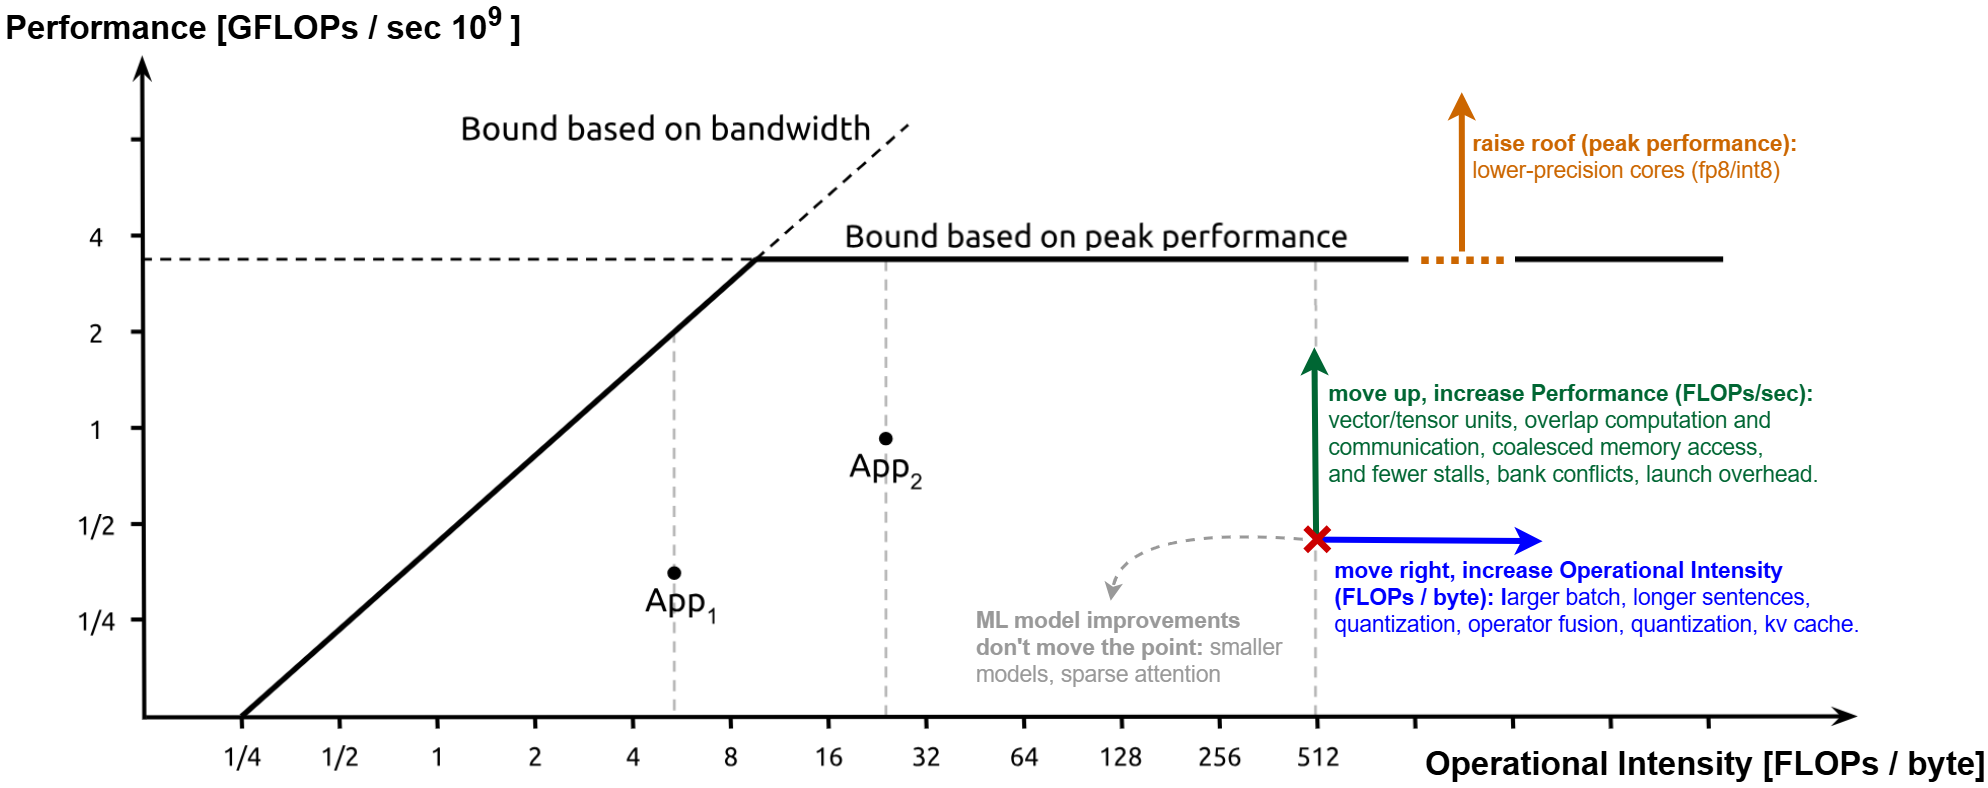
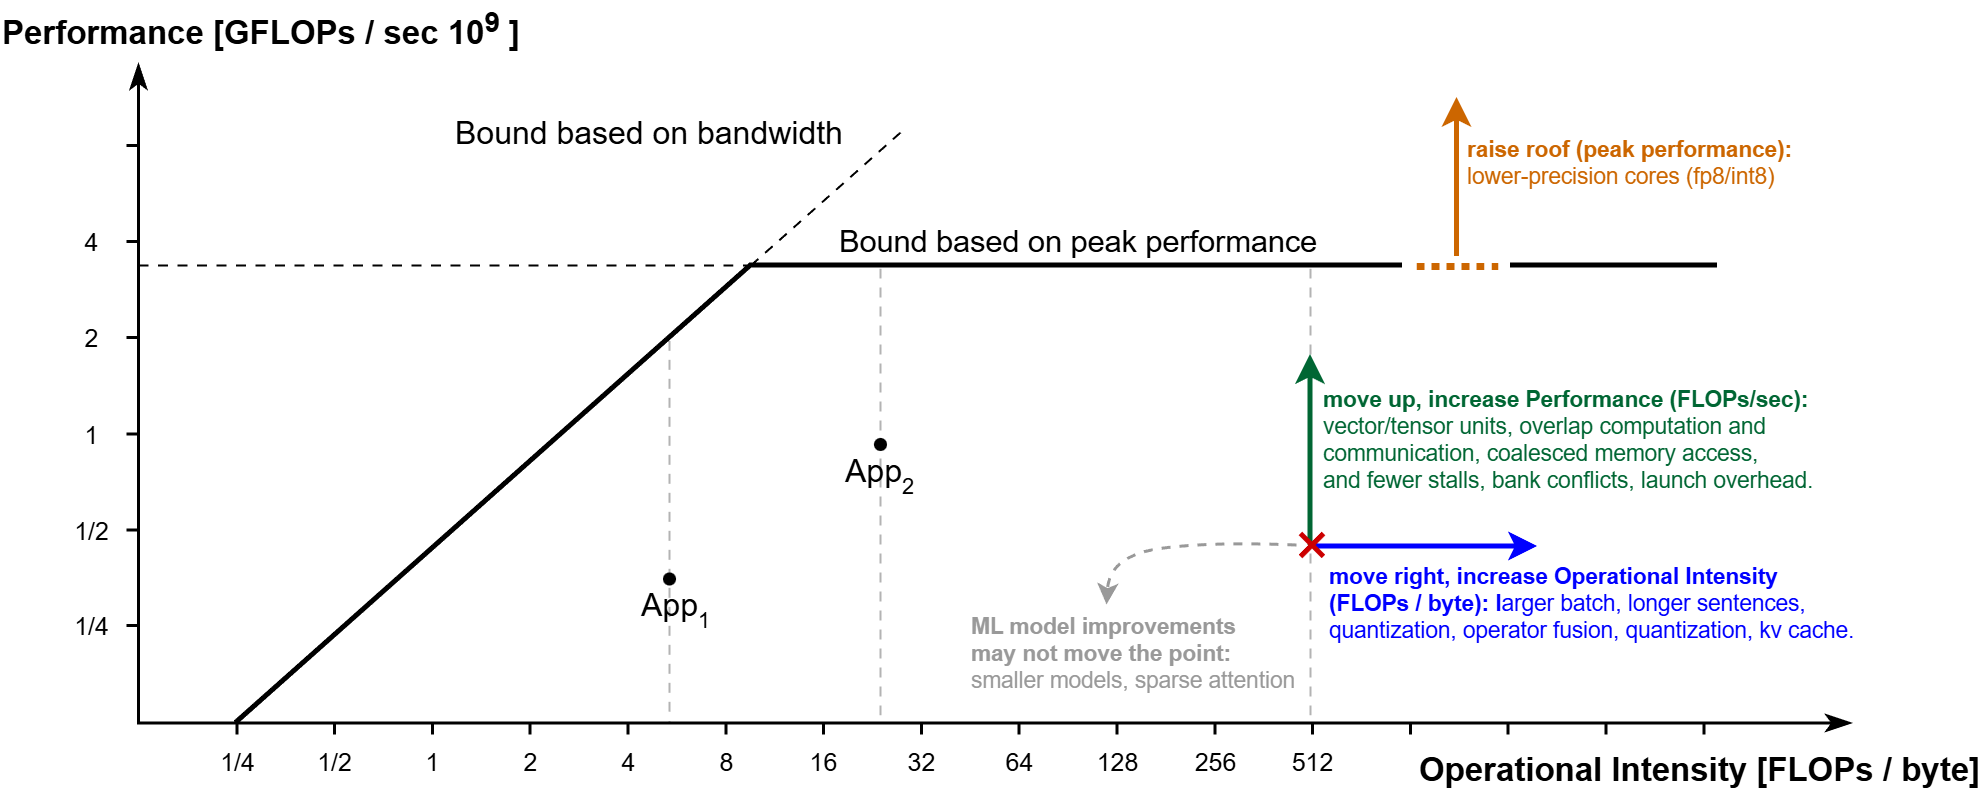
attention pictures

diff --git a/_posts/2025-12-30-inference-attention.md b/_posts/2025-12-30-inference-attention.md
@@ -13,8 +13,8 @@ $$
 
 During prefill, $$QK^T$$ compares every token with every previous token, so the compute grows quadratically with the prompt length, and a naive implementation stores an $$n \times n$$ matrix of scores per head.
 
-<!-- {: style="text-align:center; font-size: small;"}
-<img width="100%" height="100%" src="{{ site.assets }}/inference/imgs/sdpa.png"/> -->
+{: style="text-align:center; font-size: small;"}
+<img width="70%" height="70%" src="{{ site.assets }}/inference/imgs/sdpa.png"/>
 
 The following code implements this attention, with an optional mask, and the causal mask of a decoder; all the modules of this post reuse both functions:
 
@@ -69,21 +69,24 @@ Prefill processes all the tokens of the prompt at once and is limited by compute
 
 ## Multi-Head (MHA), Multi-Query (MQA) and Grouped-Query Attention (GQA)
 
-Decode reads the whole KV cache at every step, so a smaller KV cache means faster decoding, and room for larger batches and longer contexts:
-- **Multi-Head Attention** keeps one query, one key and one value per head.
-- **Multi-Query Attention** ([MQA](https://arxiv.org/abs/1911.02150)) keeps one query per head, but all heads share a single key head and a single value head. The KV cache shrinks by a factor equal to the number of heads, at some cost in quality.
-- **Grouped-Query Attention** ([GQA](https://arxiv.org/abs/2305.13245)) is the middle ground, used by most current models: the heads are split into $$G$$ groups, and the heads of a group share one key head and one value head. The cache shrinks by a factor $$n_\text{heads} / G$$. GQA becomes multi-head attention when $$G = n_\text{heads}$$, and MQA when $$G = 1$$. A trained multi-head model can be converted to GQA by averaging (mean pooling) the key and value heads of each group, followed by a short *uptraining* with about 5% of the original pre-training compute.
+Decode reads the whole KV cache at every step, so a smaller KV cache means faster decoding, and room for larger batches and longer contexts.
+
+**Multi-Head Attention** keeps one query, one key and one value per head.
+
+{: style="text-align:center; font-size: small;"}
+<img width="100%" height="100%" src="{{ site.assets }}/inference/imgs/mha.png"/>
+
+**Multi-Query Attention** ([MQA](https://arxiv.org/abs/1911.02150)) keeps one query per head, but all heads share a single key head and a single value head. The KV cache shrinks by a factor equal to the number of heads, at some cost in quality.
+
+{: style="text-align:center; font-size: small;"}
+<img width="100%" height="100%" src="{{ site.assets }}/inference/imgs/mqa.png"/>
+
+**Grouped-Query Attention** ([GQA](https://arxiv.org/abs/2305.13245)) is the middle ground, used by most current models: the heads are split into $$G$$ groups, and the heads of a group share one key head and one value head. The cache shrinks by a factor $$n_\text{heads} / G$$. GQA becomes multi-head attention when $$G = n_\text{heads}$$, and MQA when $$G = 1$$. A trained multi-head model can be converted to GQA by averaging (mean pooling) the key and value heads of each group, followed by a short *uptraining* with about 5% of the original pre-training compute.
+
+{: style="text-align:center; font-size: small;"}
+<img width="100%" height="100%" src="{{ site.assets }}/inference/imgs/gqa.png"/>
 
 GQA (Grouped-Query Attention) and MQA (Multi-Query Attention) primarily accelerate the decode phase, though they also provide a massive secondary benefit to overall system throughput by freeing up memory. These savings *only appear when there is a KV cache to read during decode*. Without a cache, GQA only saves a little compute in the key and value projections.
-
-<!-- {: style="text-align:center; font-size: small;"}
-<img width="100%" height="100%" src="{{ site.assets }}/inference/imgs/mha.png"/> -->
-
-<!-- {: style="text-align:center; font-size: small;"}
-<img width="100%" height="100%" src="{{ site.assets }}/inference/imgs/mqa.png"/> -->
-
-<!-- {: style="text-align:center; font-size: small;"}
-<img width="100%" height="100%" src="{{ site.assets }}/inference/imgs/gqa.png"/> -->
 
 The following code implements GQA with an optional KV cache; it is also MHA with `num_groups = num_heads`, and MQA with `num_groups = 1`. During decode, the module receives only the new tokens, appends their keys and values to the cache, and returns the updated cache, whose keys and values have $$G$$ heads instead of $$n_\text{heads}$$. The model must also give the new tokens the positions that follow the cached ones. MLA and DSA, below, follow the same convention: an optional `kv_cache` argument, and the new cache returned with the output:
 
@@ -224,8 +227,8 @@ The three run in a single fused GPU kernel, for both the forward and backward pa
 
 MLA mainly accelerates decode, which is limited by memory bandwidth: like MQA and GQA, it shrinks the KV cache that every decoding step reads, and with absorption, attention runs directly over the cached latent vectors, without up-projecting them into the keys and values of every head. Prefill is limited by compute instead, and absorbed attention costs more FLOPs per score, as it works in the latent dimension (512 in DeepSeek-V2) instead of the head dimension (128). Implementations therefore usually up-project the latent vectors into keys and values during prefill, and use absorption during decode.
 
-<!-- {: style="text-align:center; font-size: small;"}
-<img width="100%" height="100%" src="{{ site.assets }}/inference/imgs/mla.png"/> -->
+{: style="text-align:center; font-size: small;"}
+<img width="100%" height="100%" src="{{ site.assets }}/inference/imgs/mla.png"/>
 
 The following code implements MLA. With absorption (`absorb = True`), attention runs directly over the latent vectors, and gives the same output as recomputing the keys and values of every head (`absorb = False`):
 
@@ -302,8 +305,8 @@ DSA was added to an already trained model, in two stages. During a short *dense 
 
 With a KV cache, the indexer key of every token is cached too. Index scores are often tied, since the ReLU outputs many zeros, so the selection below uses a stable sort, which breaks ties the same way whether the tokens are processed together or one at a time: decoding with a KV cache then gives the same result as processing the whole sequence.
 
-<!-- {: style="text-align:center; font-size: small;"}
-<img width="100%" height="100%" src="{{ site.assets }}/inference/imgs/dsa.png"/> -->
+{: style="text-align:center; font-size: small;"}
+<img width="100%" height="100%" src="{{ site.assets }}/inference/imgs/dsa.png"/>
 
 The following code adds DeepSeek Sparse Attention to multi-head attention. It keeps the projections of `GQA` with `num_groups = num_heads`, so it can load the weights of a trained multi-head attention module, and adds an indexer. During the dense warm-up (`dense = True`), the queries attend to all past tokens and the module computes `indexer_loss`, which is backpropagated alone to train the indexer; afterwards, each query attends only to the `top_k` past tokens with the highest index scores:
 
@@ -421,11 +424,11 @@ Both use multi-query attention with a single key-value vector per entry, shared 
 | DeepSeek-V4, CSA layers | compression by 4, then top-k | an entry and an indexer key every 4 tokens, plus the last 128 tokens | the top-k entries and the last 128 tokens |
 | DeepSeek-V4, HCA layers | compression by 128 | an entry every 128 tokens, plus the last 128 tokens | all the entries and the last 128 tokens |
 
-<!-- {: style="text-align:center; font-size: small;"}
-<img width="100%" height="100%" src="{{ site.assets }}/inference/imgs/csa.png"/> -->
+{: style="text-align:center; font-size: small;"}
+<img width="100%" height="100%" src="{{ site.assets }}/inference/imgs/csa.png"/>
 
-<!-- {: style="text-align:center; font-size: small;"}
-<img width="100%" height="100%" src="{{ site.assets }}/inference/imgs/hca.png"/> -->
+{: style="text-align:center; font-size: small;"}
+<img width="100%" height="100%" src="{{ site.assets }}/inference/imgs/hca.png"/>
 
 The following code implements both attention types in a single module, CSA when `top_k` is given and HCA otherwise, with the overlapping compression, the lightning indexer, the shared key-value multi-query attention, the sliding window, the low-rank queries, RMSNorm, the attention sink and the grouped output projection. A model alternates CSA and HCA across its blocks. The module expects positional information in its input, such as learned positional embeddings, so it omits rotary embeddings. As in DSA, the indexer learns to imitate the attention over the compressed entries with the KL-divergence loss `indexer_loss`, which is added to the training loss, from an input detached from the rest of the model. These attention types change the architecture, so a model that uses them is trained from scratch. Unlike the other modules, it has no KV cache (whose four parts are listed above), and processes whole sequences, as in training and prefill:
 
